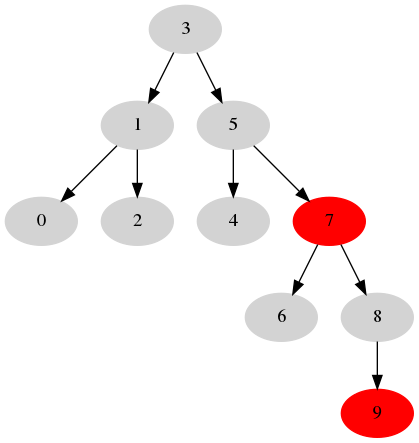
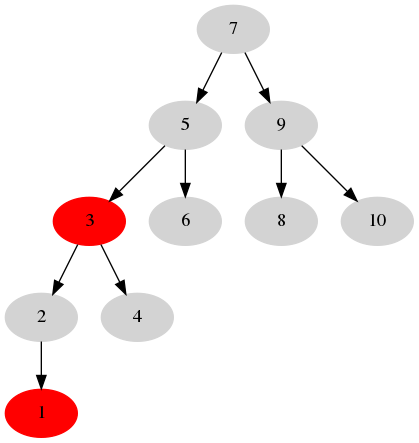
Changed some labeling with the RB plots to improve tracibility

diff --git a/final/RBtree/RBtree.py b/final/RBtree/RBtree.py
@@ -82,7 +82,7 @@ class RBtree:
         A.append(x) # self
         self.inOrder(x.right,A) # right subtree
 
-    def inOrderToString(self):
+    def inOrderToString(self,order=None,wk=None):
         """
             This is actually a misleading variable name.
             This was created to do something other than 
@@ -112,9 +112,13 @@ class RBtree:
                 col = 'red'
             else:
                 col = 'lightgrey'
-            
+            if node.key == wk:
+                lw = 'w'
+            else:
+                lw = ''
+
             # add vertices to graph and give them labels
-            G.node("n" + str(node.key),style='filled',color=col,label = str(node.key))
+            G.node("n" + str(node.key),style='filled',color=col,label = str(node.key)+lw)
 
         # draw the edges. You can modify this a bit to see the 
         # graphs like in the text with the single leaf
@@ -126,7 +130,12 @@ class RBtree:
 
         # make and save the picture
         #        start_all_files_with   render_at_runtime, delete i
-        G.render(filename = "RBT" + str(self.n),view=False,cleanup=True)
+        if order is not None:
+            pt = "_" + str(order)
+        else:
+            pt = ""
+
+        G.render(filename = "RBT" + str(self.n)+pt,view=False,cleanup=True)
 
         # keep track of how many pictures saved
         self.n = self.n + 1
@@ -253,25 +262,25 @@ class RBtree:
                     x.p.color = 'r'
                     self.Left_Rotate(x.p)
                     w = x.p.right
-                    self.inOrderToString()
+                    self.inOrderToString(1,w.key)
                 if w.left.color == 'b' and w.right.color == 'b':
                     w.color = 'r'
                     x = x.p
-                    self.inOrderToString()
+                    self.inOrderToString(2,w.key)
                 else:
                     if w.right.color == 'b':
                         w.left.color = 'b'
                         w.color='r'
                         self.Right_Rotate(w)
                         w = x.p.right
-                        self.inOrderToString()
+                        self.inOrderToString(3,w.key)
                     w.color = x.p.color
                     x.p.color = 'b'
                     w.right.color = 'b'
+                    self.inOrderToString(4,w.key)
                     self.Left_Rotate(x.p)
-                    self.inOrderToString()
                     x = self.root
-                    self.inOrderToString()
+                    self.inOrderToString(5,w.key)
             else:
                 w = x.p.left
                 if w.color == 'r':
@@ -279,28 +288,28 @@ class RBtree:
                     x.p.color = 'r'
                     self.Right_Rotate(x.p)
                     w = x.p.left
-                    self.inOrderToString()
-                    self.inOrderToString()
+                    self.inOrderToString(6,w.key)
                 if w.right.color == 'b' and w.left.color == 'b':
                     w.color = 'r'
                     x = x.p
-                    self.inOrderToString()
+                    self.inOrderToString(7,w.key)
                 else:
                     if w.left.color == 'b':
                         w.right.color = 'b'
                         w.color='r'
                         self.Left_Rotate(w)
                         w = x.p.left
-                        self.inOrderToString() 
+                        self.inOrderToString(8,w.key) 
                     w.color = x.p.color
                     x.p.color = 'b'
                     w.left.color = 'b'
+                    self.inOrderToString(9,w.key)
                     self.Right_Rotate(x.p)
                     x = self.root
-                    self.inOrderToString()
+                    self.inOrderToString(10,w.key)
 
         x.color = 'b'
-        self.inOrderToString()
+        self.inOrderToString(11)
 
     def Tree_Minimum(self,x):
         while x.left is not RBtree.NIL:
@@ -368,9 +377,12 @@ class RBtree:
 if __name__ == "__main__":
     T = RBtree()
     for x in range(0,10):
-        n = Node(key=x)
+        n = Node(key=10-x)
         T.RB_Insert(n)
+    # T.RB_Delete(3)
+    T.RB_Delete(8)
     T.RB_Delete(3)
-    T.RB_Delete(7)
+    # T.RB_Delete(6)
+    # T.RB_Delete(5)
     T.inOrderToString()
     # T.animate()

diff --git a/final/RBtree/RBupd.py b/final/RBtree/RBupd.py
@@ -1,0 +1,56 @@
+import RBtree
+import pickle
+import os
+import sys
+
+def init(filename,persistent = True):
+
+    if os.path.exists(filename) and persistent:
+        tree = pickle.load(filename)
+    else:
+        tree = RBtree.RBtree()
+    return tree
+
+
+def ops(tree,flag,nums):
+    if flag == 'i':
+        for num in nums:
+            tree.RB_Insert(RBtree.Node(key=int(num)))
+    else:
+        for num in nums:
+            tree.RB_Delete(int(num))
+
+def save(tree,filename):
+    pickle.dump(tree,filename)
+
+def parse(strs):
+    for word in strs:
+        if ".pickle" in word:
+            filename = word
+    
+    if 'i' in strs:
+        i = strs.index('i')
+
+    if 'd' in strs:
+        i = strs.index('d')
+
+    return filename, i
+
+def main(strs):
+    fn, i = parse(strs)
+
+    pers = True
+    if '_' in fn:
+        fn = fn.strip("_")
+        pers = False
+
+    tree = init(fn,pers)
+
+    nums = [int(n) for n in strs[i+1:]]
+    
+    ops(tree,strs[i],nums)
+
+    save(tree,fn)
+
+if __name__ == "__main__":
+    main(sys.argv)
